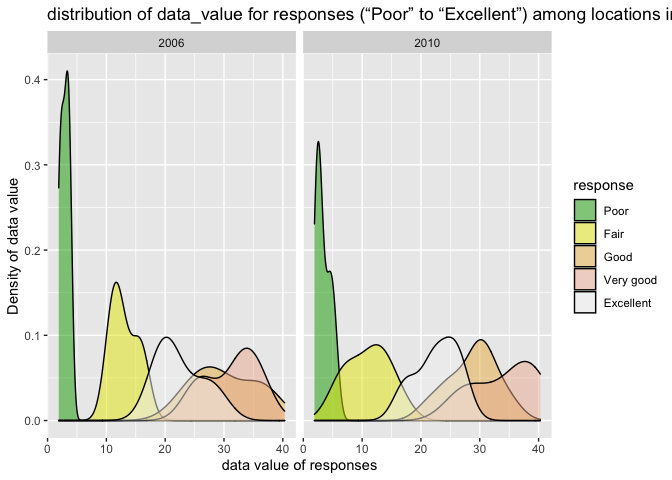
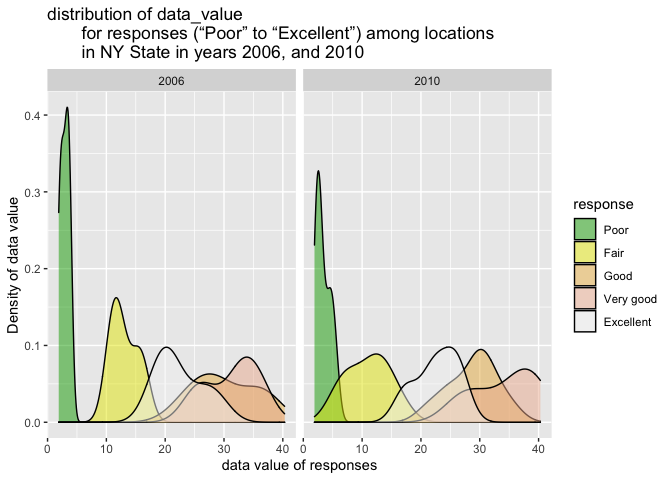
Organize format

diff --git a/p8105_hw3_WZ2591.md b/p8105_hw3_WZ2591.md
@@ -43,25 +43,22 @@ aisle and department.
 
 ## Describing some key variables, and giving illstrative examples of observations
 
-**1.** The variable `reordered` means the product is been reordered or
-not.
+**1.** `reordered` means the product is been reordered or not.
 
-The mean of variable `reordered` is 0.5985944, and it means about 60%
+The mean value of `reordered` is 0.5985944, and it means about 60%
 products are reordered.
 
-**2.** The variable `order_hour_of_day` records the time that the order
-was placed.
+**2.** `order_hour_of_day`: records the time that the order was placed.
 
 It shows most orders are placed at 14, which is at 2pm
 
-**3.** The variable `days_since_prior_order` represents the time since
-the last order.
+**3.** `days_since_prior_order`: represents the time since the last
+order.
 
 The mean value of `days_since_prior_order` is 17.0661259, which means
-people usually orders again after 17 days. And most of people order
-after 30 days from the prior order
+people usually orders again after 17 days.
 
-**4.** The variable `product_name` reprensets the name of product.
+**4.** `product_name`: reprensets the name of product.
 
 Banana is the product that users order most.
 
@@ -102,7 +99,8 @@ aisle =
   ggplot(aes(reorder(aisle, number_of_items), x = number_of_items)) + 
   geom_point() + 
   labs(
-    title = "the number of items ordered in each aisle with more than 10000 items ordered",
+    title = "the number of items ordered 
+    in each aisle with more than 10000 items ordered",
     x = "Number of items ordered in each aisle",
     y = "Aisle name",
     caption = "the data was loaded from the p8105.datasets"
@@ -129,7 +127,9 @@ Three_pop_items =
     'three most popular items in this aisle' = product_name, 
     'number of ordered time' = number_of_ordered_time
     ) %>% 
-  knitr::kable(caption = "three most popular items in each of the aisles baking ingredients, dog food care, and packaged vegetables fruits")
+  knitr::kable(caption = "three most popular items 
+               in each of the aisles baking ingredients, 
+               dog food care, and packaged vegetables fruits")
 
 Three_pop_items
 ```
@@ -168,7 +168,9 @@ mean_hour_apples_icecream =
          `Thursday` = `4`, 
          `Friday` = `5`, 
          `Saturday` = `6`) %>% 
-  knitr::kable(caption = "the mean hour of the day at which Pink Lady Apples and Coffee Ice Cream are ordered on each day of the week")
+  knitr::kable(caption = "the mean hour of the day 
+               at which Pink Lady Apples 
+               and Coffee Ice Cream are ordered on each day of the week")
 ```
 
     ## `summarise()` has grouped output by 'order_dow'. You can override using the `.groups` argument.
@@ -203,8 +205,17 @@ brfss_clean =
   select(-locationabbr) %>% 
   separate(locationdesc, into = c("state", "county"), sep = " - ") %>% 
   filter(topic == 'Overall Health',
-         response %in% c('Poor', 'Fair', 'Good', 'Very good', 'Excellent')) %>%
-  mutate(response = factor(response, levels = c('Poor', 'Fair', 'Good', 'Very good', 'Excellent'), ordered = TRUE)) %>% 
+         response %in% c('Poor', 
+                         'Fair', 
+                         'Good', 
+                         'Very good', 
+                         'Excellent')) %>%
+  mutate(response = factor(response, levels = c('Poor', 
+                                                'Fair', 
+                                                'Good', 
+                                                'Very good', 
+                                                'Excellent'), 
+                           ordered = TRUE)) %>% 
   arrange(response)
 
 
@@ -278,11 +289,7 @@ excellent_response =
   select(year, state, data_value) %>% 
   group_by(year, state) %>% 
   summarise(average_data_value = mean(data_value))
-```
 
-    ## `summarise()` has grouped output by 'year'. You can override using the `.groups` argument.
-
-``` r
 excellent_response
 ```
 
@@ -334,7 +341,9 @@ distribution_plot =
   ggplot(aes(x = data_value, fill = response)) +
   geom_density() +
   facet_grid(. ~ year) +
-  labs(title = "distribution of data_value for responses (“Poor” to “Excellent”) among locations in NY State in years 2006, and 2010",
+  labs(title = "distribution of data_value 
+       for responses (“Poor” to “Excellent”) among locations 
+       in NY State in years 2006, and 2010",
        x = "data value of responses",
        y = "Density of data value") +
   scale_fill_manual(values = alpha(terrain.colors(5), 0.5))
@@ -478,7 +487,15 @@ activity_time_plot =
          color = day)) +
   scale_x_continuous(
     breaks = c(0, 3, 6, 9, 12, 15, 18, 21, 24), 
-    labels = c("00:00 ", "03:00 ", "06:00 ", "09:00 ","12:00 ", "15:00 ","18:00", "21:00 ","24:00"), 
+    labels = c("00:00", 
+               "03:00", 
+               "06:00", 
+               "09:00", 
+               "12:00", 
+               "15:00", 
+               "18:00", 
+               "21:00", 
+               "24:00"), 
     limits = c(0, 24)) +
   geom_line(aes(color = day)) +
   labs(title = "the 24-hour activity time courses for each day", 
